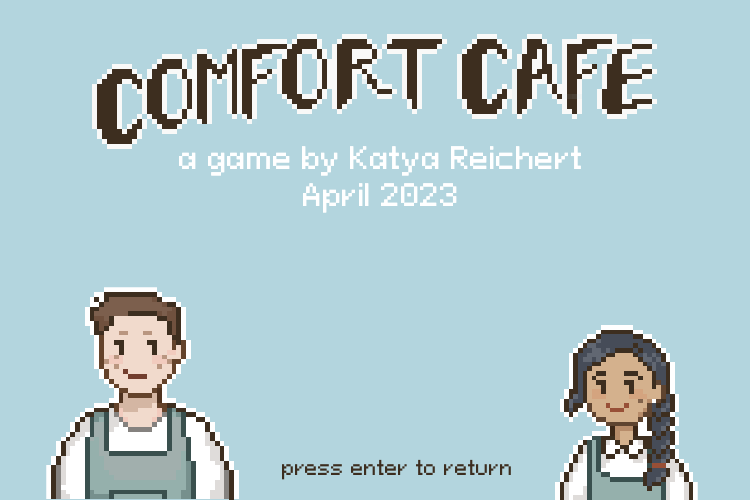
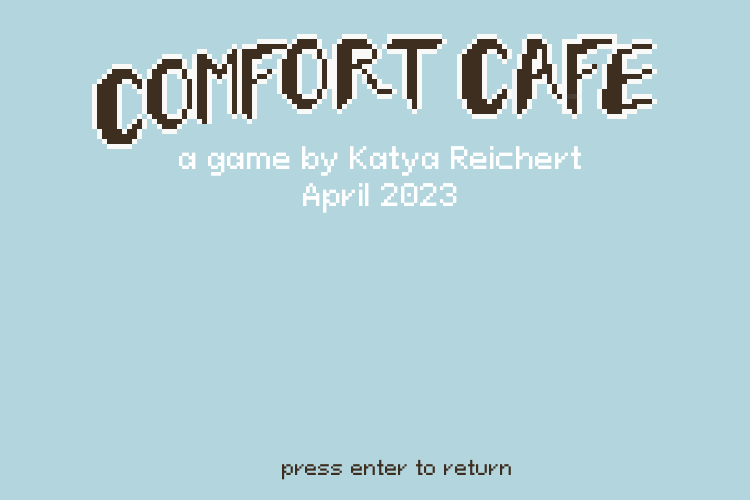
Animated options page and started main counter scene

Changed region(s): [[0.0613, 0.57, 0.3373, 1.0], [0.736, 0.63, 0.9507, 1.0]]

diff --git a/final-project/scenes/title_sequence.py b/final-project/scenes/title_sequence.py
@@ -19,6 +19,8 @@ MAIN_GIF = [pygame.transform.scale(pygame.image.load(os.path.join('../assets/tit
                                         str(i) + '.png')), (WIDTH, HEIGHT)) for i in range(0,3)]
 CREDIT_PAGE = pygame.transform.scale(pygame.image.load(os.path.join('../assets/title_seq', 'credits.png')), 
                                     (WIDTH, HEIGHT))
+CREDIT_GIF = [pygame.transform.scale(pygame.image.load(os.path.join('../assets/title_seq', 'joey_' + 
+                                        str(i) + '.png')), (WIDTH, HEIGHT)) for i in range(0,8)]
 
 # Define movement constants
 FPS = 60
@@ -32,6 +34,8 @@ def draw_window(show_credits_page, bg_counter, text_opacity, select_indicator):
 
     if show_credits_page:
          WIN.blit(CREDIT_PAGE, (0,0))
+         WIN.blit(CREDIT_GIF[bg_counter%8], (0,0))
+
 
     else:
         # Handle background

diff --git a/final-project/scenes/counter_k.py b/final-project/scenes/counter_k.py
@@ -45,13 +45,16 @@ def main():
         t = clock.get_time()
         elapsed_time_ctr += t
         
-        # Handle Menu selection
+        
+
+        # Handle User Actions
         for event in pygame.event.get():
             if event.type == pygame.QUIT:
                 run = False
                         
         draw_window(bg_counter)
 
+        # Animation Counter
         if elapsed_time_ctr >= 320:
             bg_counter += 1
             elapsed_time_ctr = 0
